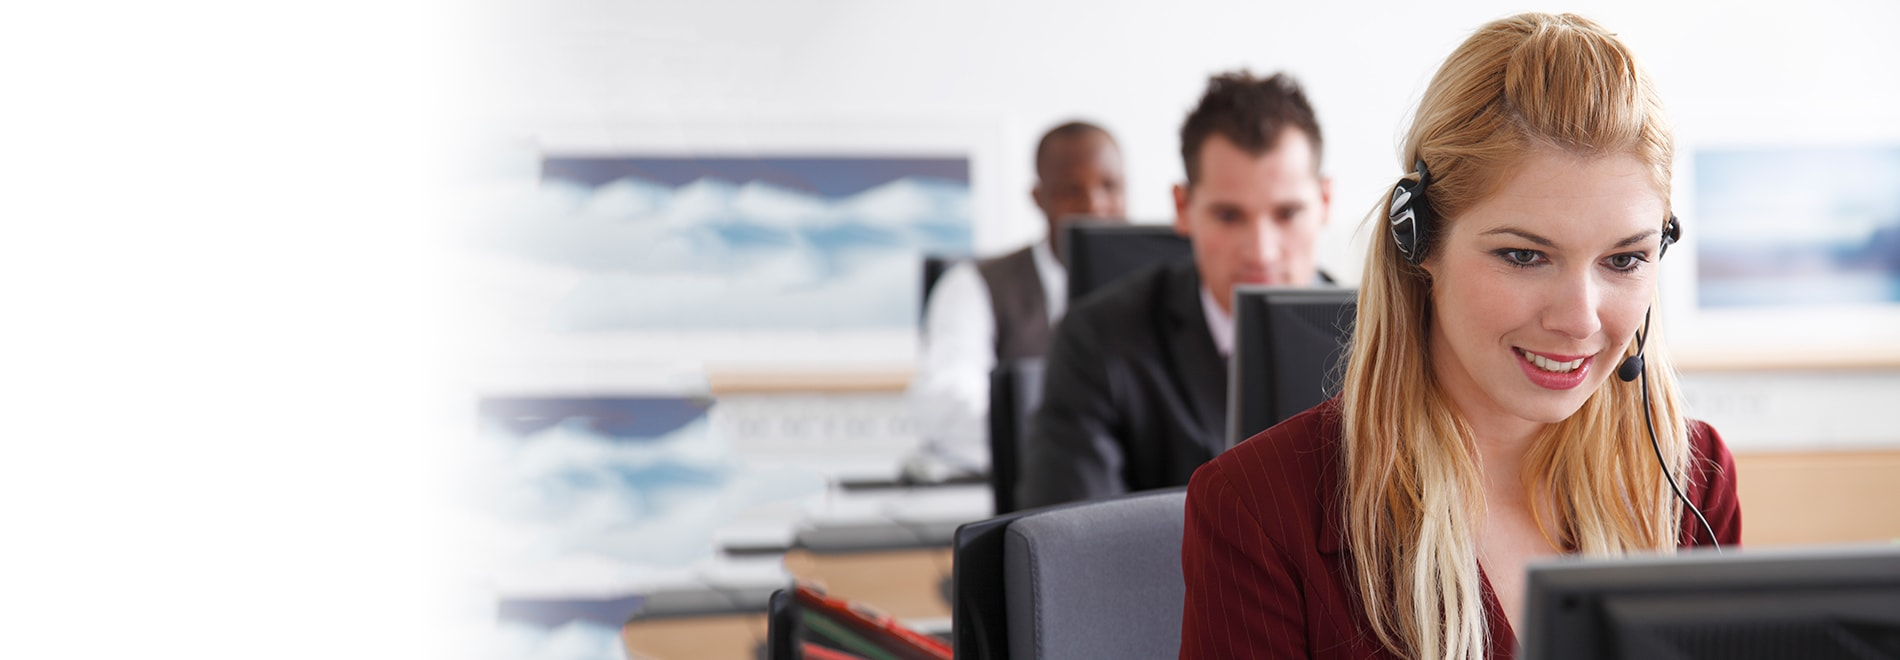
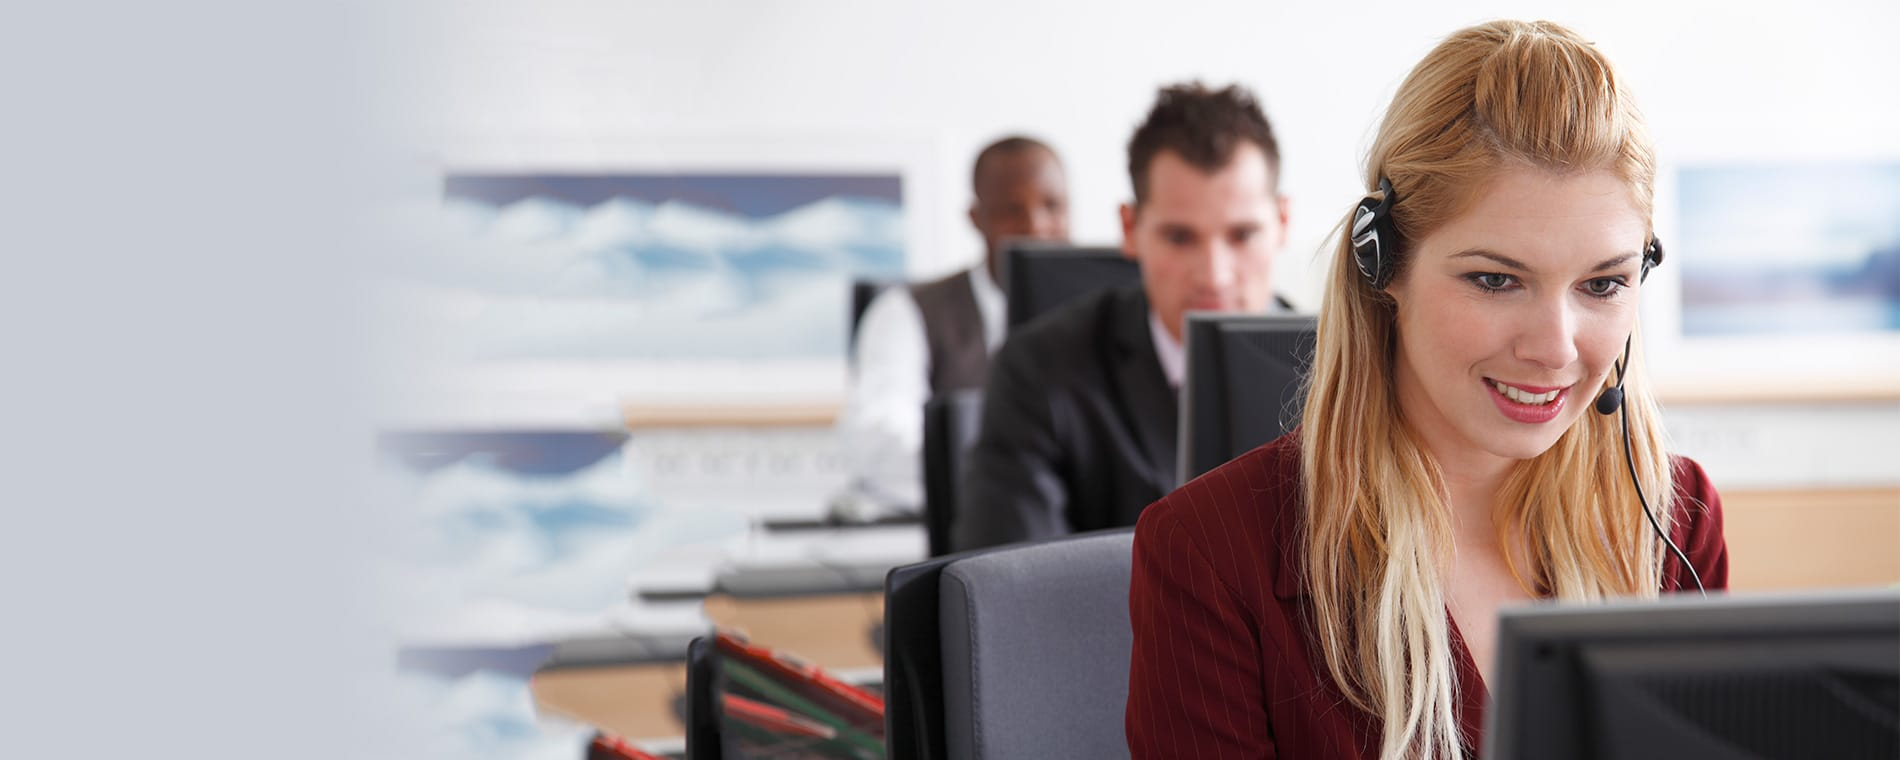
images optimized, working on contact page layout and content

diff --git a/index.html b/index.html
@@ -53,7 +53,8 @@
             <div class="uppercase">Contact An Agent</div>
         </div>
 
-    </div> <!-- close Row 1 -->
+    </div>
+    <!-- close Row 1 -->
 
     <!-- Logo and Page Links -->
     <!-- Open Row 2 -->
@@ -128,11 +129,21 @@
                     <label class="sr-only" for="phonenumber">Name</label>
                     <input type="tel" class="form-control" id="phonenumber" placeholder="Phone Number">
                 </div>
-                <!-- todo fix - floats over jumbotron when scaling up all the way -->
-                <div class="input-group date-of-birth">
+                <div class="form-group">
+                    <select class="form-control">
+                        <option value="none">Type of Insurance?</option>
+                        <option value="health">Health</option>
+                        <option value="life">Life</option>
+                        <option value="medicare">Medicare</option>
+                        <option value="auto">Auto</option>
+                        <option value="home">Home</option>
+                    </select>
+                </div>
+                <!-- todo used dropdown select instead -->
+                <!--<div class="input-group date-of-birth">
                     <input class="form-control" id="dob" type="date" placeholder="Date Of Birth">
                     <span class="input-group-addon"><i class="fa fa-calendar"></i></span>
-                </div>
+                </div>-->
                 <div class="form-horizontal">
                     <label class="sr-only" for="message"></label>
                     <textarea id="message" class="form-control" rows="3" placeholder="Message..."></textarea>
@@ -225,7 +236,7 @@
                     <p class="testimonials-subheader">We are Reliable. We are Trusted.</p>
                     <p class="testimonials-body">"What I liked most about Simple Health was the whole process was so simple. I was afraid that I wouldn’t know what plan to purchase. Clarissa from Simple Health took the time to explain the coverages and helped find the right plan for me. I am so grateful."
                         <br>
-                        <img class="img-circle testimonials-image first-slide" src="imgs/testimonials-2.jpg" alt="testimonials images"/>
+                        <img class="img-circle testimonials-image first-slide" src="imgs/testimonials-2-min.jpg" alt="testimonials images"/>
                         <br><span class="testimonials-name"><strong>R. Lopes</strong>, Florida, USA</span>
                     </p>
                 </div>
@@ -239,7 +250,7 @@
                     <p class="testimonials-subheader">We are Reliable. We are Trusted.</p>
                     <p class="testimonials-body">"I got the coverage I want without having to spend all kinds of time contacting different agents and doing all the research on my own. Jesse at Simple Health walked me through things and helped me find a plan that works for me and doesn’t cost a fortune. Thank you Simple Health!"
                         <br>
-                        <img class="img-circle testimonials-image first-slide" src="imgs/testimonials-3.jpg" alt="testimonials images"/>
+                        <img class="img-circle testimonials-image first-slide" src="imgs/testimonials-3-min.jpg" alt="testimonials images"/>
                         <br><span class="testimonials-name"><strong>K. Winters</strong>, Florida, USA</span>
                     </p>
                 </div>

diff --git a/careers.html b/careers.html
@@ -105,7 +105,7 @@
                 <div class="health-section">
                     <div class="health-section">
                         <h2>CAREERS</h2>
-                        <p>Simple Health is the largest, most competitive full-service insurance agency in Florida. We are always looking for great sales professionals to join our team. If you want to achieve your financial goals and further your career objectives while working in a world-insurance insurance organization, send your resume to careers@hbcinsure.com.</p>
+                        <p>Simple Health is the largest, most competitive full-service insurance agency in Florida. We are always looking for great sales professionals to join our team. If you want to achieve your financial goals and further your career objectives while working in a world-insurance insurance organization, send your resume to<a class="job-application" href="mailto:careers@hbcinsure.com?Subject=careers - %20Simple%20Health%20Plans">careers@hbcinsure.com</a>.</p>
                         <hr/>
                         <h3 class="health-insurance-subheader">Current Job Openings</h3>
                         <ul class="careers-list">

diff --git a/careers-boca-raton.html b/careers-boca-raton.html
@@ -140,8 +140,9 @@
                     <p>Simple Health is a call-center based insurance enrollment center utilizing web-based cloud technologies. A synergy of web & client based phone systems help us leverage our reach and contact rates to our customers. Our proprietary electronic application technology has sped up our business processes exponentially. Not only by helping more consumers find the insurance they need, but also by enabling our staff to qualify, quote, submit, verify, process, and track in real-time.
                     <span class="careers-contact-info">
                         <h3>Contact:</h3>
-                        Email: careers@hbcinsure.com<br>
-                        Phone: 754-888-6460</span>
+                        Email: <a class="job-application" href="mailto:careers@hbcinsure.com?Subject=careers - %20Simple%20Health%20Plans">careers@hbcinsure.com</a><br>
+                        Phone: <a class="job-phone" href="tel:+8004921834">(800)492.1834</a>
+                    </span>
                     </p>
                 </div>
                 <div class="health-section-w-image">

diff --git a/careers-hollywood.html b/careers-hollywood.html
@@ -140,8 +140,9 @@
                     <p>Simple Health is a call-center based insurance enrollment center utilizing web-based cloud technologies. A synergy of web & client based phone systems help us leverage our reach and contact rates to our customers. Our proprietary electronic application technology has sped up our business processes exponentially. Not only by helping more consumers find the insurance they need, but also by enabling our staff to qualify, quote, submit, verify, process, and track in real-time.
                     <span class="careers-contact-info">
                         <h3>Contact:</h3>
-                        Email: careers@hbcinsure.com<br>
-                        Phone: 754-888-6460</span>
+                        Email: <a class="job-application" href="mailto:careers@hbcinsure.com?Subject=careers - %20Simple%20Health%20Plans">careers@hbcinsure.com</a><br>
+                        Phone: <a class="job-phone" href="tel:+8004921834">(800)492.1834</a>
+                    </span>
                     </p>
                 </div>
                 <div class="health-section-w-image">

diff --git a/health-insurance.html b/health-insurance.html
@@ -111,7 +111,7 @@
                     <p>Recent changes to healthcare in the U.S. have made insurance more affordable and easier to obtain. Now there are more options available than ever before, and insurance carriers now offer many added benefits and features to their plans.</p>
                 </div>
                 <div class="health-section-w-image">
-                    <img class="health-plans-img" src="imgs/health-plans.jpg" alt="health insurance pic"/>
+                    <img class="health-plans-img" src="imgs/health-plans-min.jpg" alt="health insurance pic"/>
                 </div>
             </div>
             <div class="col-md-4 health-insurance-sidebar">

diff --git a/short-term-insurance.html b/short-term-insurance.html
@@ -116,7 +116,7 @@
                     <p>Getting Short-Term Insurance is quick and easy — just fill out the free quote request form and a qualified licensed insurance professional will contact you straight away to help you enroll.</p>
                 </div>
                 <div class="health-section-w-image">
-                    <img class="health-plans-img" src="imgs/short-term.jpg" alt="health insurance pic"/>
+                    <img class="health-plans-img" src="imgs/short-term-min.jpg" alt="health insurance pic"/>
                 </div>
             </div>
 

diff --git a/individual-family-insurance.html b/individual-family-insurance.html
@@ -102,7 +102,7 @@
                 </div>
                 <hr/>
                 <div class="health-section-w-image">
-                    <img class="health-plans-img" src="imgs/health-individual.jpg" alt="health insurance pic">
+                    <img class="health-plans-img" src="imgs/health-individual-min.jpg" alt="health insurance pic">
                 </div>
             </div>
             <div class="col-md-4 health-insurance-sidebar">

diff --git a/css/careers.css b/css/careers.css
@@ -127,3 +127,19 @@
 .careers-contact-info {
     display: block;
 }
+
+a.job-application {
+     font-size: 1em;
+     color: #01abff;
+     padding-left: 5px;
+     text-decoration: underline;
+     text-transform: lowercase;
+ }
+
+a.job-phone {
+    font-size: 1em;
+    color: #072436;
+    padding-left: 5px;
+    text-decoration: underline;
+    text-transform: lowercase;
+}
